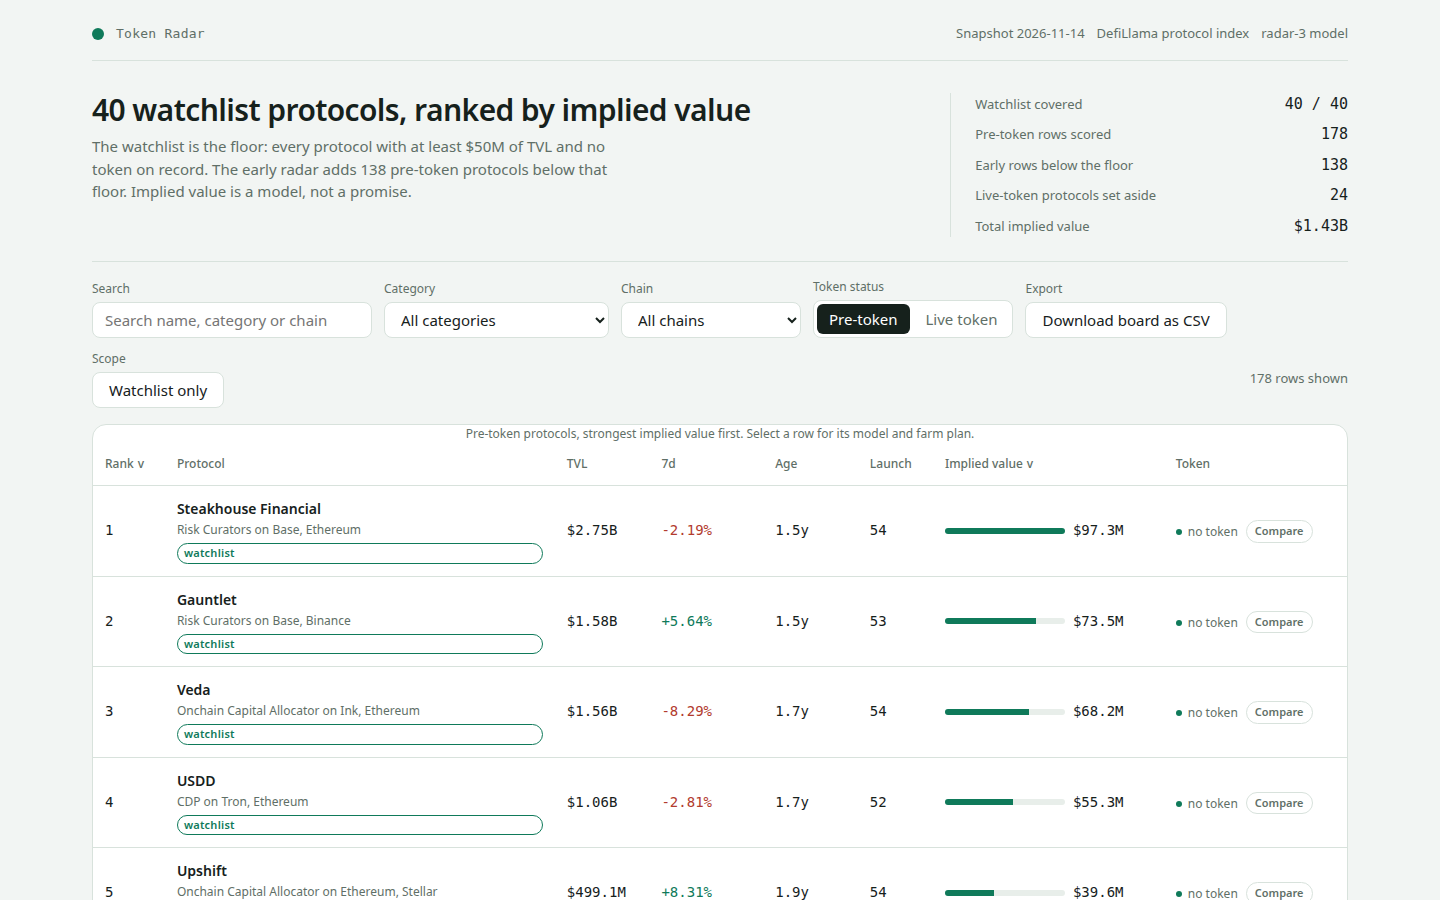
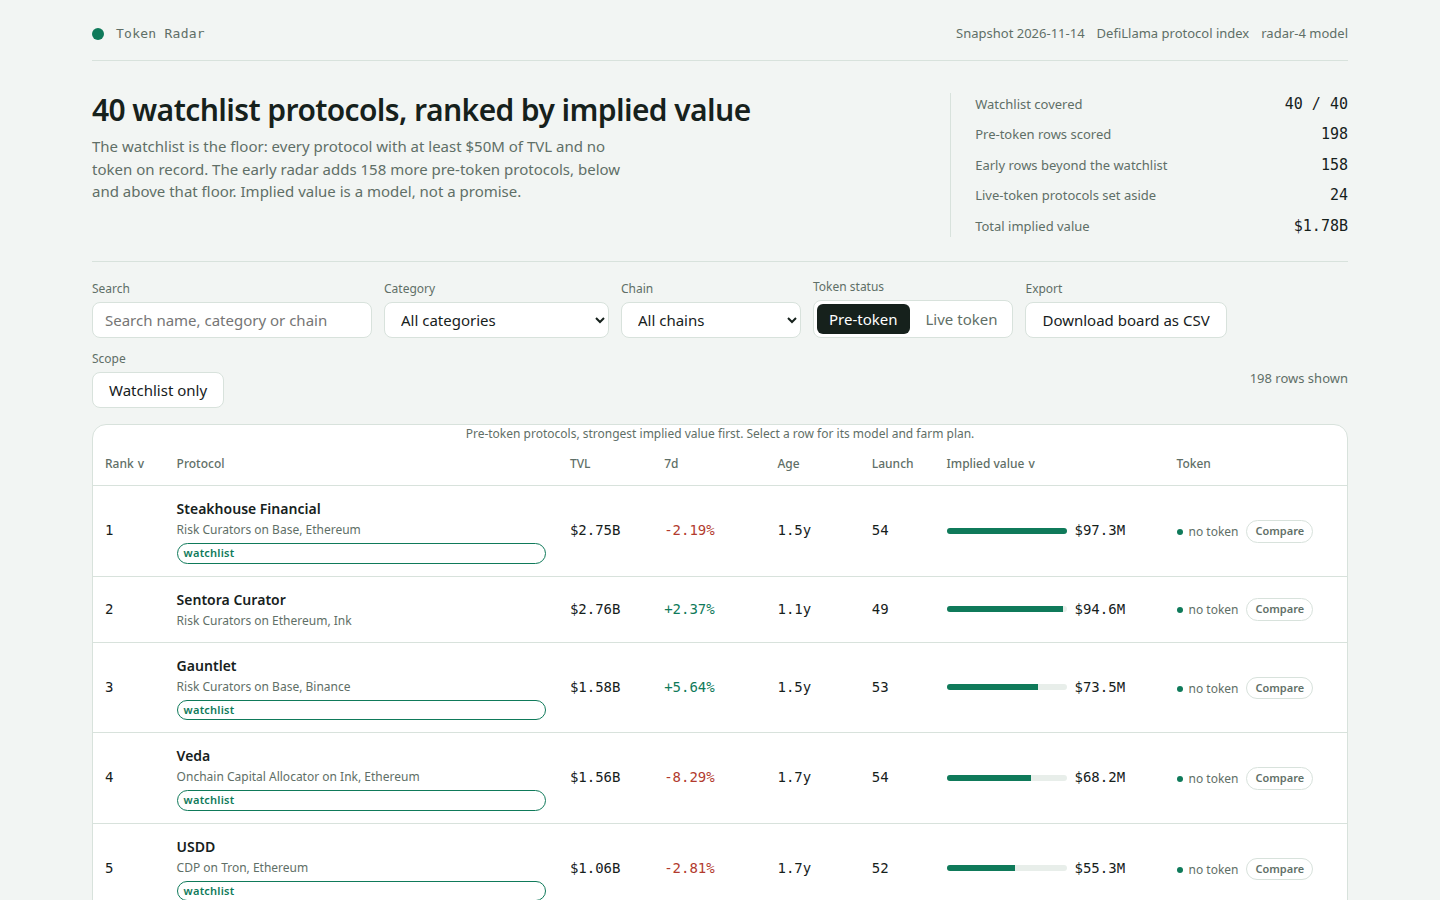
radar-4: 198 rows (all rankable pre-token, below and above the floor), farm verdict FARM/THIN/SKIP
- buildBoard now ranks every rankable pre-token protocol, not only those
  below the $50M floor: 40 watchlist + 158 early = 198 rows (was 178).
  The 20 above-floor rankable protocols (Sentora Curator, Polymarket
  International, CIAN Yield Layer, ...) are pre-token and pass the
  watchlist's own exclusion rules, so the board ranks them.
- Every farm plan is netted to a verdict from its gas share: FARM (<=25%),
  THIN (26-50%), SKIP (>50%). 111 FARM, 37 THIN, 50 SKIP.
- Dashboard lede and facts updated for the wider early radar; model
  version radar-4.

diff --git a/lib/model.ts b/lib/model.ts
@@ -93,7 +93,7 @@ export const MODEL: ModelConstants = {
 };
 
 /** The model's version label: the dashboard names it and the rules quote it. */
-export const MODEL_VERSION = 'radar-3';
+export const MODEL_VERSION = 'radar-4';
 
 /** How many live-token protocols the Live token view carries, by market cap. */
 export const LIVE_ROWS = 24;
@@ -428,12 +428,15 @@ export function buildBoard(snapshot: Snapshot, model: ModelConstants = MODEL): B
     const p = index.get(slug);
     if (p !== undefined) chosen.set(slug, p);
   }
-  // The early radar: every other rankable pre-token protocol below the watchlist floor. The radar
-  // exists to find the early ones, and the snapshot carries them all. The floor is the guard: above
-  // it, a protocol the watchlist leaves out is left out because it is a sub-product of a parent, and
-  // the snapshot carries no parent field to tell it apart, so the early radar does not reach above it.
+  // The early radar: every other rankable pre-token protocol, below the floor and above it. The
+  // radar exists to find the early ones, and the snapshot carries them all. The floor is the
+  // watchlist's floor, never a ceiling: a rankable protocol above the floor is still a launch
+  // candidate (it records no token, and it passes the watchlist's own exclusion rules), so the
+  // board ranks it. The watchlist is the coverage floor the gate checks; the board is the whole
+  // early radar. (radar-4: this lifts the board from 178 to 198 rows, the 20 rankable protocols
+  // above the floor the v3 floor guard left out.)
   const early = snapshot.protocols
-    .filter((p) => !chosen.has(p.slug) && isRankable(p) && p.tvl_usd < snapshot.floor_usd)
+    .filter((p) => !chosen.has(p.slug) && isRankable(p))
     .sort((a, b) => b.tvl_usd - a.tvl_usd || (a.slug < b.slug ? -1 : a.slug > b.slug ? 1 : 0));
   for (const p of early) chosen.set(p.slug, p);
 
@@ -552,7 +555,11 @@ function actionFor(p: SnapshotProtocol, capital: number, chain: string): string 
  * costs follow the chain the position lives on, so an Ethereum position costs more to run than one on
  * a cheap L2. The plan is capital-tiered: it states the risk of the position and warns when the gas
  * for the whole plan is a large share of the capital, so a small farmer can see before starting
- * whether the position is worth it on that chain.
+ * whether the position is worth it on that chain. Every plan is netted to a verdict — FARM, THIN or
+ * SKIP — from the gas share alone, so the farmer knows at a glance whether the position is worth it
+ * at this capital: FARM when gas is at most a quarter of the capital, THIN when it eats a quarter to
+ * a half (farm it only with more capital or on a cheaper chain), SKIP when it eats more than half.
+ * (radar-4: the verdict is the netting the top entries state; the gas share was already computed.)
  */
 export function farmSteps(p: SnapshotProtocol, age: number | null): FarmStep[] {
   const chain = chainOf(p);
@@ -569,9 +576,13 @@ export function farmSteps(p: SnapshotProtocol, age: number | null): FarmStep[] {
   const weeks = Math.max(1, Math.round(hold / 7));
   const totalGas = gas * 2 + gas * weeks;
   const gasShare = Math.round((totalGas / capital) * 100);
-  const gasNote = gasShare > 25
-    ? ` Gas for the whole plan is about $${totalGas}, ${gasShare}% of this $${capital} capital on ${chain}: a larger position or a cheaper chain stretches it further.`
-    : '';
+  const verdict = gasShare <= 25 ? 'FARM' : gasShare <= 50 ? 'THIN' : 'SKIP';
+  const verdictText =
+    verdict === 'FARM'
+      ? `Verdict: FARM. Gas for the whole plan is about $${totalGas}, ${gasShare}% of this $${capital} capital on ${chain}, so the position is worth running at this size.`
+      : verdict === 'THIN'
+        ? `Verdict: THIN. Gas for the whole plan is about $${totalGas}, ${gasShare}% of this $${capital} capital on ${chain}: farm it only with a larger position or on a cheaper chain.`
+        : `Verdict: SKIP. Gas for the whole plan is about $${totalGas}, ${gasShare}% of this $${capital} capital on ${chain}, so this size is not worth farming — wait for a cheaper chain or a larger position.`;
   return [
     {
       text: `Use a fresh wallet that holds only the funds you plan to farm, and keep its seed phrase offline.`,
@@ -579,7 +590,7 @@ export function farmSteps(p: SnapshotProtocol, age: number | null): FarmStep[] {
       time: '5 minutes',
     },
     {
-      text: `${action} ${risk}.${gasNote}`,
+      text: `${action} ${risk}. ${verdictText}`,
       cost: `$${capital} of capital and about $${gas} of gas`,
       time: '15 minutes to set up',
     },

diff --git a/dashboard/app.js b/dashboard/app.js
@@ -292,12 +292,15 @@
     var weeks = Math.max(1, Math.round(hold / 7));
     var totalGas = gas * 2 + gas * weeks;
     var gasShare = Math.round((totalGas / capital) * 100);
-    var gasNote = gasShare > 25
-      ? ' Gas for the whole plan is about $' + totalGas + ', ' + gasShare + '% of this $' + capital + ' capital on ' + chain + ': a larger position or a cheaper chain stretches it further.'
-      : '';
+    var verdict = gasShare <= 25 ? 'FARM' : gasShare <= 50 ? 'THIN' : 'SKIP';
+    var verdictText = verdict === 'FARM'
+      ? 'Verdict: FARM. Gas for the whole plan is about $' + totalGas + ', ' + gasShare + '% of this $' + capital + ' capital on ' + chain + ', so the position is worth running at this size.'
+      : verdict === 'THIN'
+        ? 'Verdict: THIN. Gas for the whole plan is about $' + totalGas + ', ' + gasShare + '% of this $' + capital + ' capital on ' + chain + ': farm it only with a larger position or on a cheaper chain.'
+        : 'Verdict: SKIP. Gas for the whole plan is about $' + totalGas + ', ' + gasShare + '% of this $' + capital + ' capital on ' + chain + ', so this size is not worth farming — wait for a cheaper chain or a larger position.';
     return [
       { text: 'Use a fresh wallet that holds only the funds you plan to farm, and keep its seed phrase offline.', cost: 'about $' + gas + ' of gas for the first transaction on ' + chain, time: '5 minutes' },
-      { text: actionFor(p, capital, chain) + ' ' + risk + '.' + gasNote, cost: '$' + capital + ' of capital and about $' + gas + ' of gas', time: '15 minutes to set up' },
+      { text: actionFor(p, capital, chain) + ' ' + risk + '. ' + verdictText, cost: '$' + capital + ' of capital and about $' + gas + ' of gas', time: '15 minutes to set up' },
       { text: 'Make one qualifying action each week, such as a deposit, a borrow, a swap or a vote.', cost: 'about $' + weekly + ' of gas a month on ' + chain, time: '10 minutes a week' },
       { text: 'Hold the position for at least ' + hold + ' days so the activity is counted in more than one snapshot.', cost: 'the $' + capital + ' stays in the position', time: hold + ' days' },
       { text: "Before you withdraw, open the protocol's own points or rewards page and claim only from the link it publishes.", cost: 'no fee to check, and never pay to claim', time: '10 minutes' },
@@ -413,12 +416,12 @@
     return el('section', { class: 'lede' },
       el('div', null,
         el('h1', { text: DATA.watchlist_size + ' watchlist protocols, ranked by implied value' }),
-        el('p', { text: 'The watchlist is the floor: every protocol with at least $' + Math.round(DATA.floor_usd / 1e6) + 'M of TVL and no token on record. The early radar adds ' + DATA.early_size + ' pre-token protocols below that floor. Implied value is a model, not a promise.' })
+        el('p', { text: 'The watchlist is the floor: every protocol with at least $' + Math.round(DATA.floor_usd / 1e6) + 'M of TVL and no token on record. The early radar adds ' + DATA.early_size + ' more pre-token protocols, below and above that floor. Implied value is a model, not a promise.' })
       ),
       el('div', { class: 'facts' },
         el('div', { class: 'fact' }, el('span', { text: 'Watchlist covered' }), el('b', { text: DATA.watchlist_size + ' / ' + DATA.watchlist_size })),
         el('div', { class: 'fact' }, el('span', { text: 'Pre-token rows scored' }), el('b', { text: String(DATA.board_size) })),
-        el('div', { class: 'fact' }, el('span', { text: 'Early rows below the floor' }), el('b', { text: String(DATA.early_size) })),
+        el('div', { class: 'fact' }, el('span', { text: 'Early rows beyond the watchlist' }), el('b', { text: String(DATA.early_size) })),
         el('div', { class: 'fact' }, el('span', { text: 'Live-token protocols set aside' }), el('b', { text: String(DATA.live_size) })),
         el('div', { class: 'fact' }, el('span', { text: 'Total implied value' }), el('b', { text: fmtUsd(totalImplied) }))
       )

diff --git a/main.ts b/main.ts
@@ -7,9 +7,10 @@
 //
 // The dashboard is a static page, no framework and no network: dashboard/index.html, dashboard/app.css
 // and dashboard/app.js read /output/data.js, which this program writes from the same board. The model
-// (radar-3) prices each protocol from a comps curve fit on the snapshot's own live-token protocols,
-// covers the whole watchlist plus every rankable pre-token protocol below the floor, and gives every
-// protocol a launch score and a farm plan with costs and times that follow its chain and category.
+// (radar-4) prices each protocol from a comps curve fit on the snapshot's own live-token protocols,
+// covers the whole watchlist plus every rankable pre-token protocol below and above the floor (198
+// rows), and gives every protocol a launch score and a farm plan with costs, times and a FARM / THIN /
+// SKIP verdict that follow its chain and category.
 //
 // Outside the grader's container, MAKEFUN_OUTPUT_DIR stands in for /output:
 //   mkdir -p out && MAKEFUN_OUTPUT_DIR=out node main.ts --input ../input/snapshot.json

diff --git a/README.md b/README.md
@@ -4,7 +4,7 @@
 [![rank](https://make.fun/badge/token-radar-01/wiliamkesh/token-radar/rank.svg)](https://make.fun/bounty/token-radar-01/leaderboard?utm_source=github&utm_medium=readme&utm_campaign=token-radar-01)
 [![reward](https://make.fun/badge/token-radar-01/wiliamkesh/token-radar/reward.svg)](https://make.fun/bounty/token-radar-01?utm_source=github&utm_medium=readme&utm_campaign=token-radar-01)
 
-Token launch radar: the pre-token DeFi protocols most likely to launch a valuable token, ranked by an implied value that follows from the snapshot's own figures. The multiple is a curve fit on the snapshot's live-token protocols — log(FDV/TVL) against log(TVL) — so a protocol's multiple falls as it gets bigger, which is what the live market actually does. The curve was tested leave-one-out on the snapshot's 128 live-token protocols (median error 3.49x, against 4.54x for category medians), and the dashboard states the test. Each row also carries a launch score (age, seven-day growth, size) as a second signal beside the ranking. Wrapped, staked and bridged products of a token that already trades are left out, whatever their TVL. Every protocol gets a farm plan with the cost and time of each step, priced for the chain the position lives on, with the risk of the position stated and a warning when gas is a large share of the capital.
+Token launch radar: the pre-token DeFi protocols most likely to launch a valuable token, ranked by an implied value that follows from the snapshot's own figures. The multiple is a curve fit on the snapshot's live-token protocols — log(FDV/TVL) against log(TVL) — so a protocol's multiple falls as it gets bigger, which is what the live market actually does. The curve was tested leave-one-out on the snapshot's 128 live-token protocols (median error 3.49x, against 4.54x for category medians), and the dashboard states the test. The board covers all 40 watchlist protocols plus 158 more pre-token protocols, below and above the $50M floor — 198 rows, every rankable pre-token protocol the snapshot carries. Each row also carries a launch score (age, seven-day growth, size) as a second signal beside the ranking. Wrapped, staked and bridged products of a token that already trades are left out, whatever their TVL. Every protocol gets a farm plan with the cost and time of each step, priced for the chain the position lives on, with the risk of the position stated — and every plan is netted to a verdict, FARM, THIN or SKIP, from the gas share of the capital, so the farmer knows at a glance whether the position is worth it at this size.
 
 ## Run it
 
